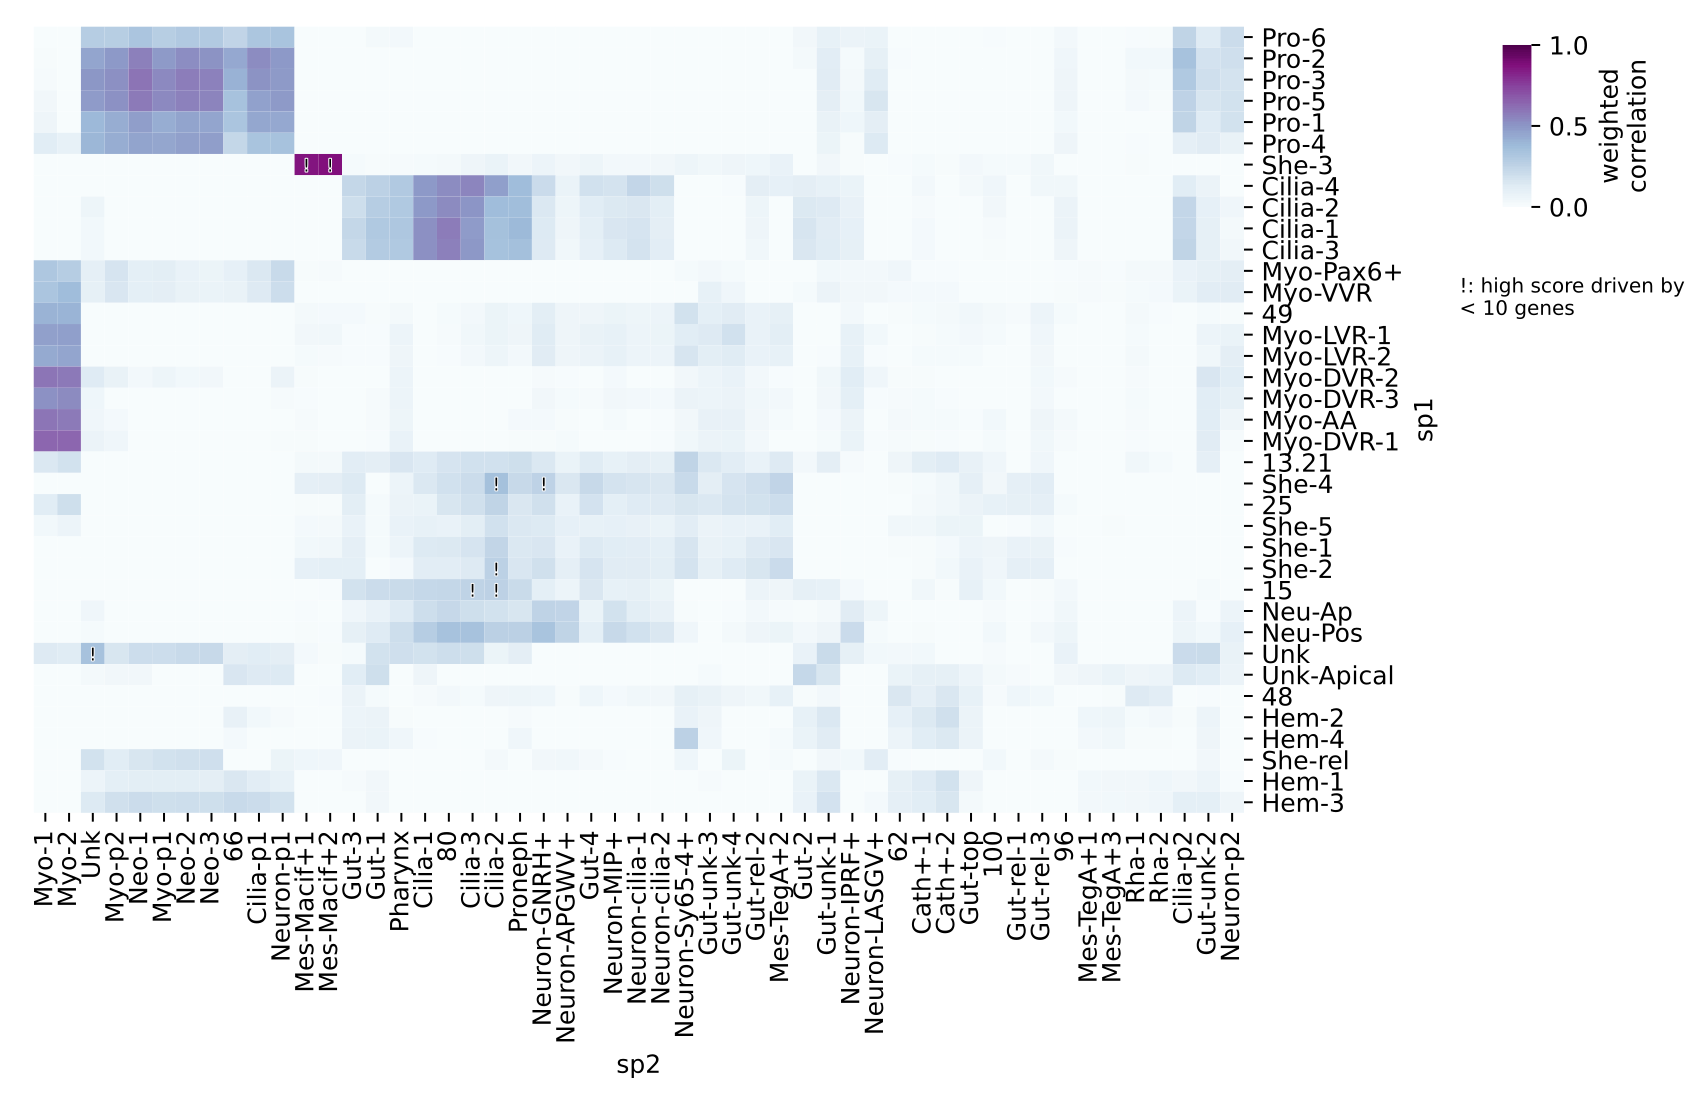
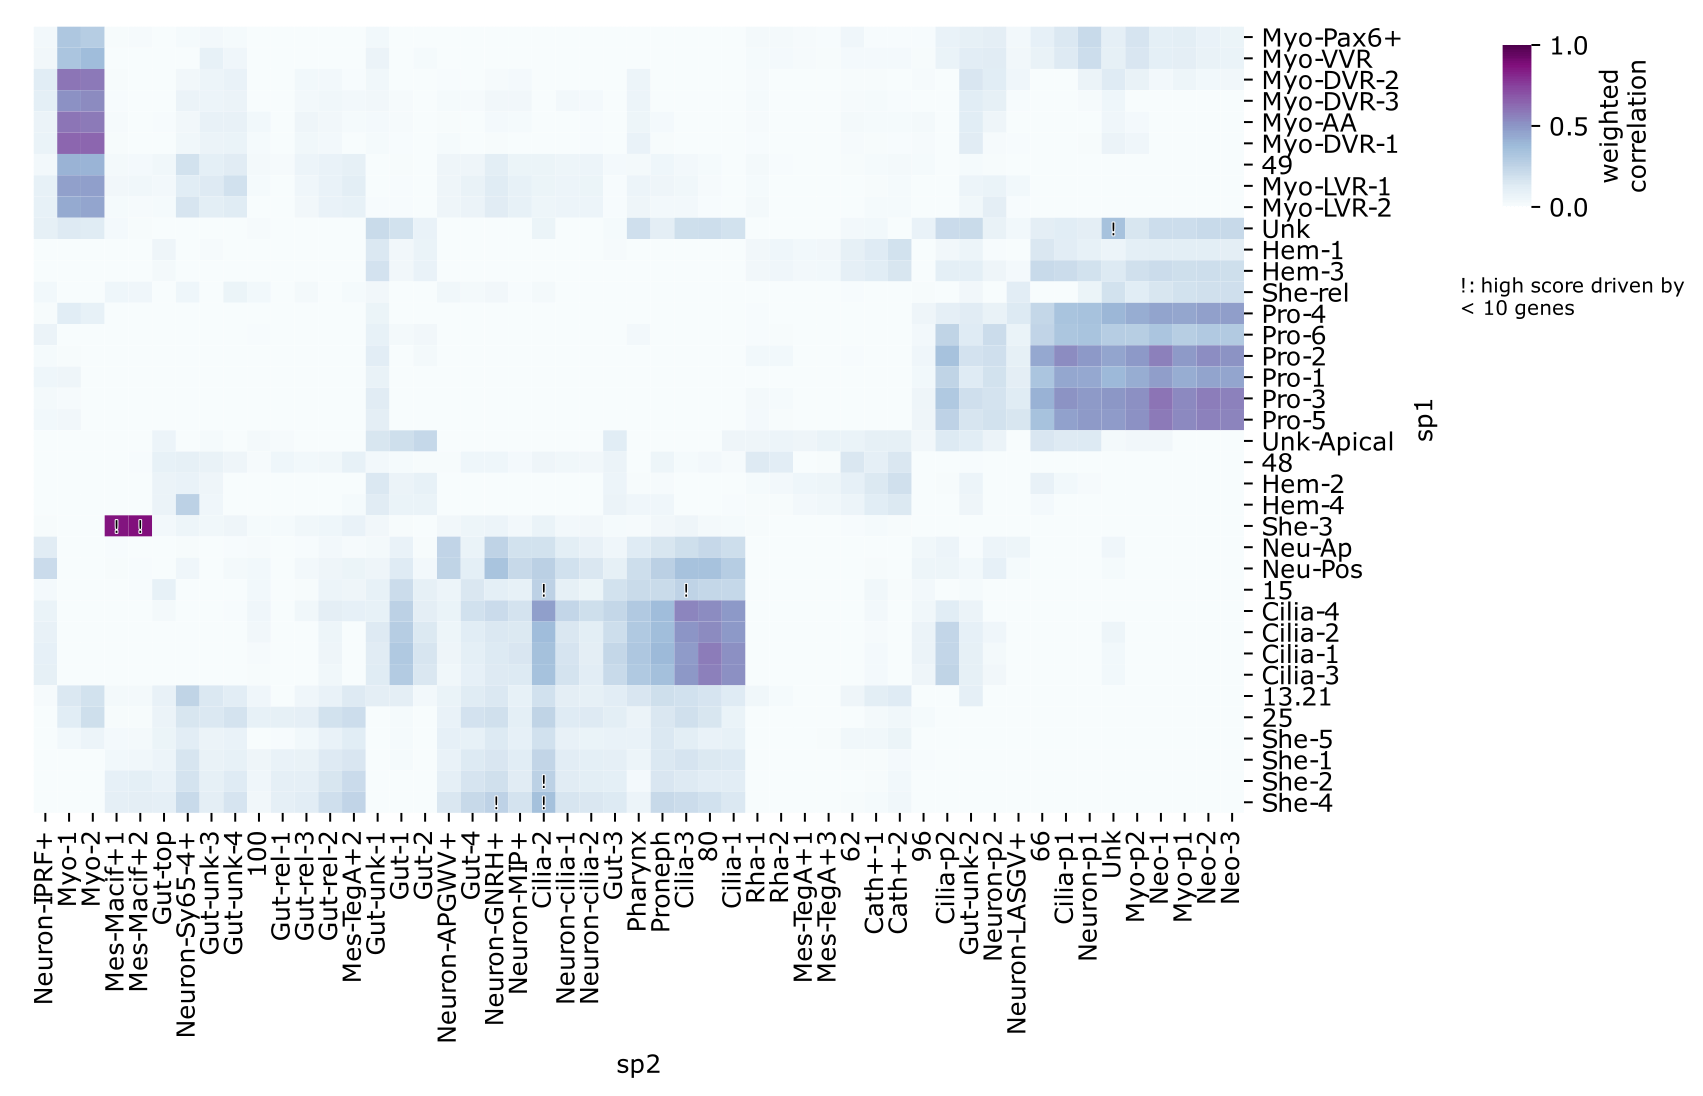
docs

diff --git a/wiki/Tips-and-examples.md b/wiki/Tips-and-examples.md
@@ -28,13 +28,16 @@ pesci --matrix1 data/Cragig_matrix_EM.tsv.gz --matrix2 data/Procro_matrix_EM.tsv
 
 The option `--reorder` accepts the following arguments to reoder rows and columns: `Diag` (default, see above), `Clust` uses hierarchical clustering (average linkage, correlation), and `Alpha` alphabetical: 
 
+#### Clust
+
 ```
 pesci --matrix1 data/Cragig_matrix_EM.tsv.gz --matrix2 data/Procro_matrix_EM.tsv.gz --clusters1 data/Cragig_cell_id.tsv --clusters2 data/Procro_cell_id.tsv --ortho_pairs data/orthologous_pairs_Procro-Cragig.txt --reorder Clust
 ```
 
 ![pesci fig](https://github.com/eparey/pesci/blob/main/wiki/img/matrix_clust.png)
 
---reorder Alpha
+#### Alpha
+
 ```
 pesci --matrix1 data/Cragig_matrix_EM.tsv.gz --matrix2 data/Procro_matrix_EM.tsv.gz --clusters1 data/Cragig_cell_id.tsv --clusters2 data/Procro_cell_id.tsv --ortho_pairs data/orthologous_pairs_Procro-Cragig.txt --reorder None
 ```
